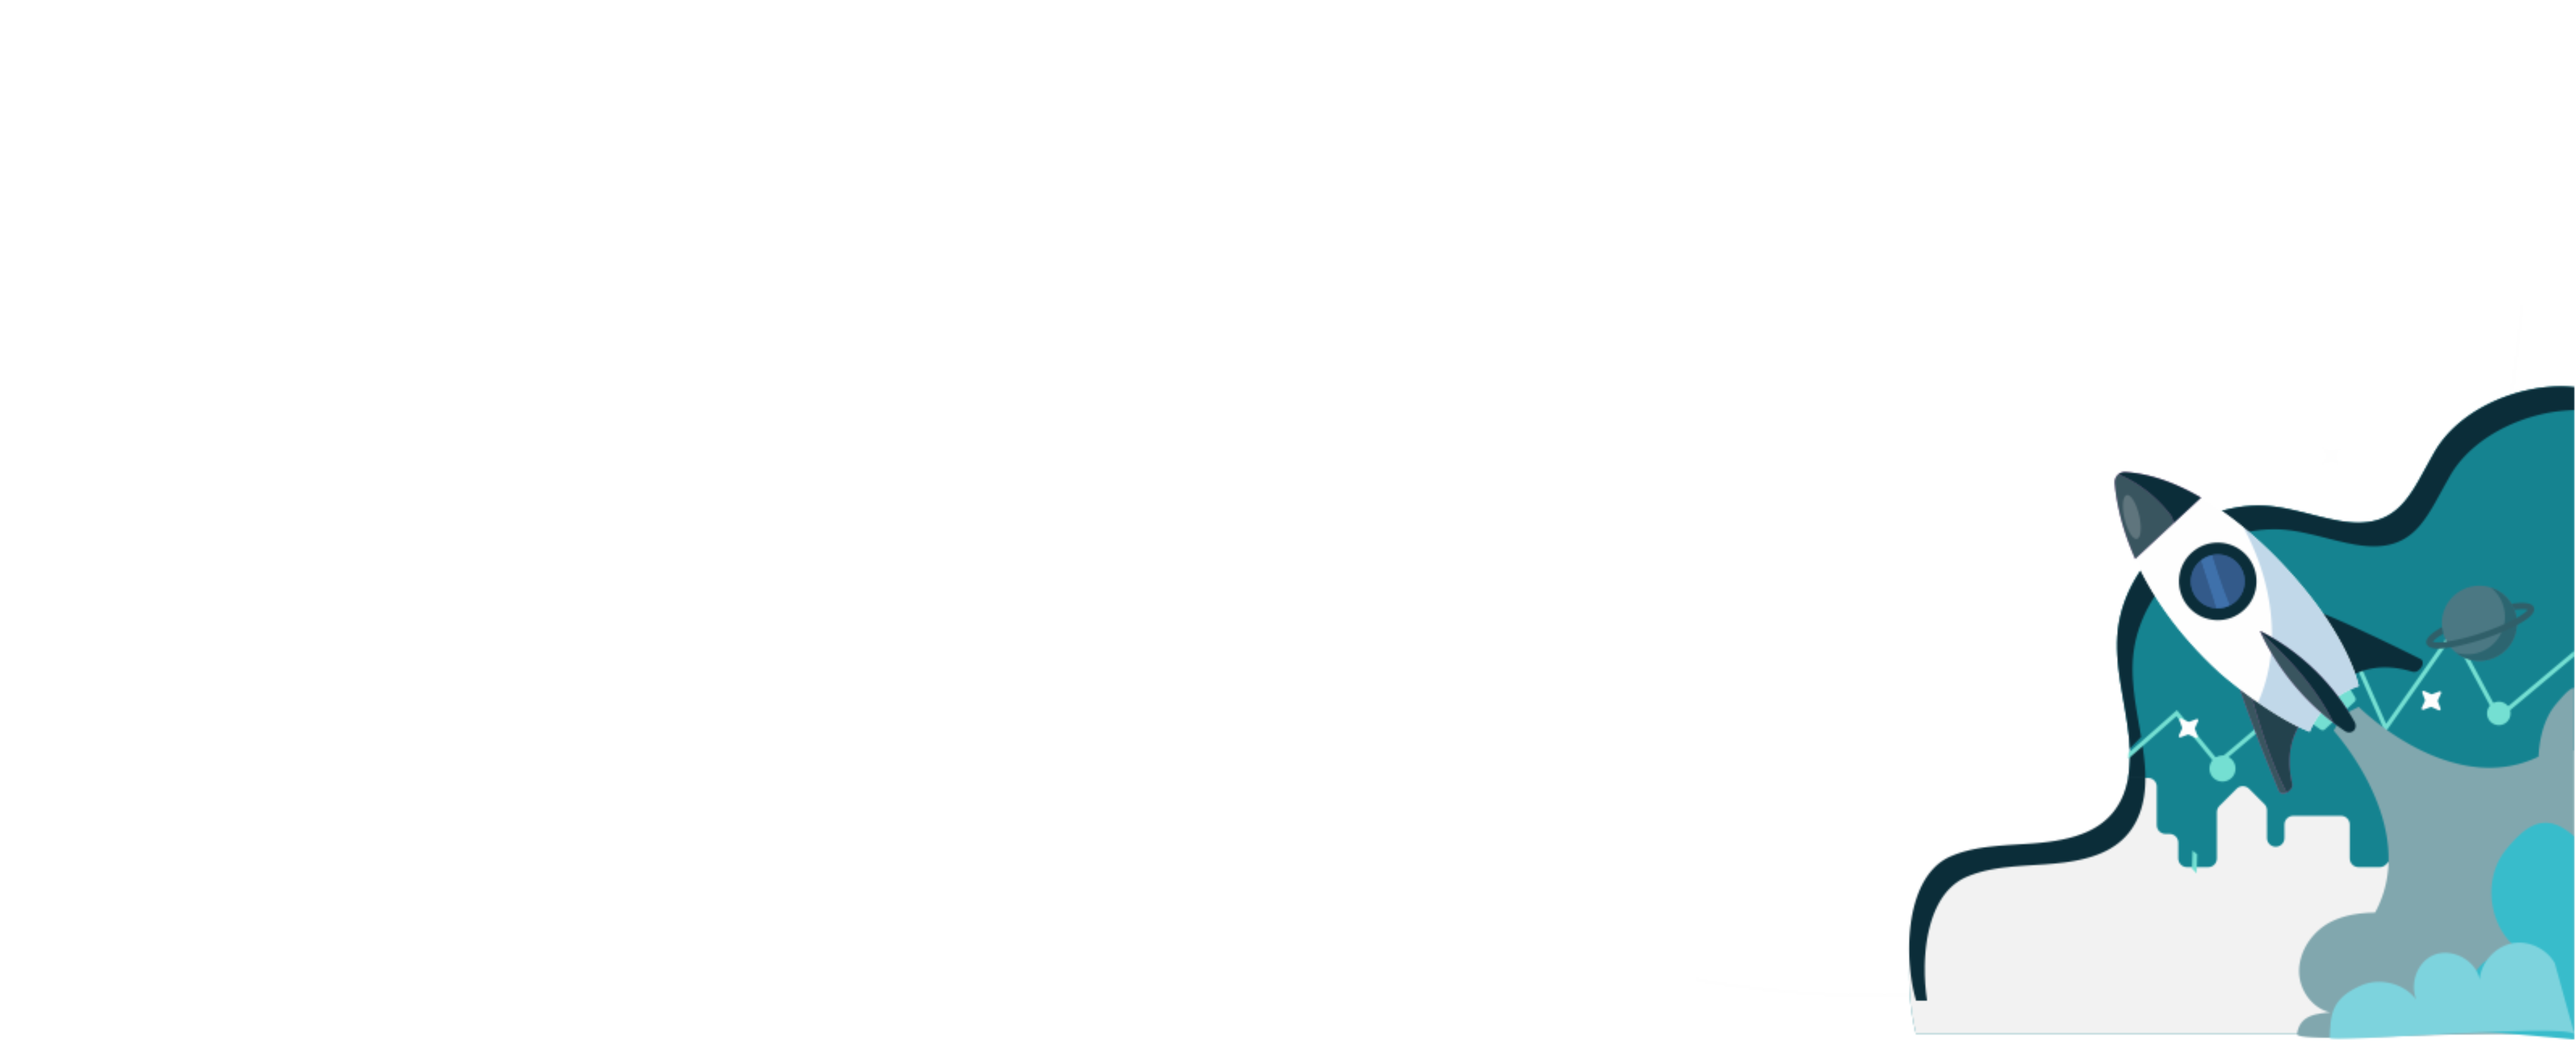
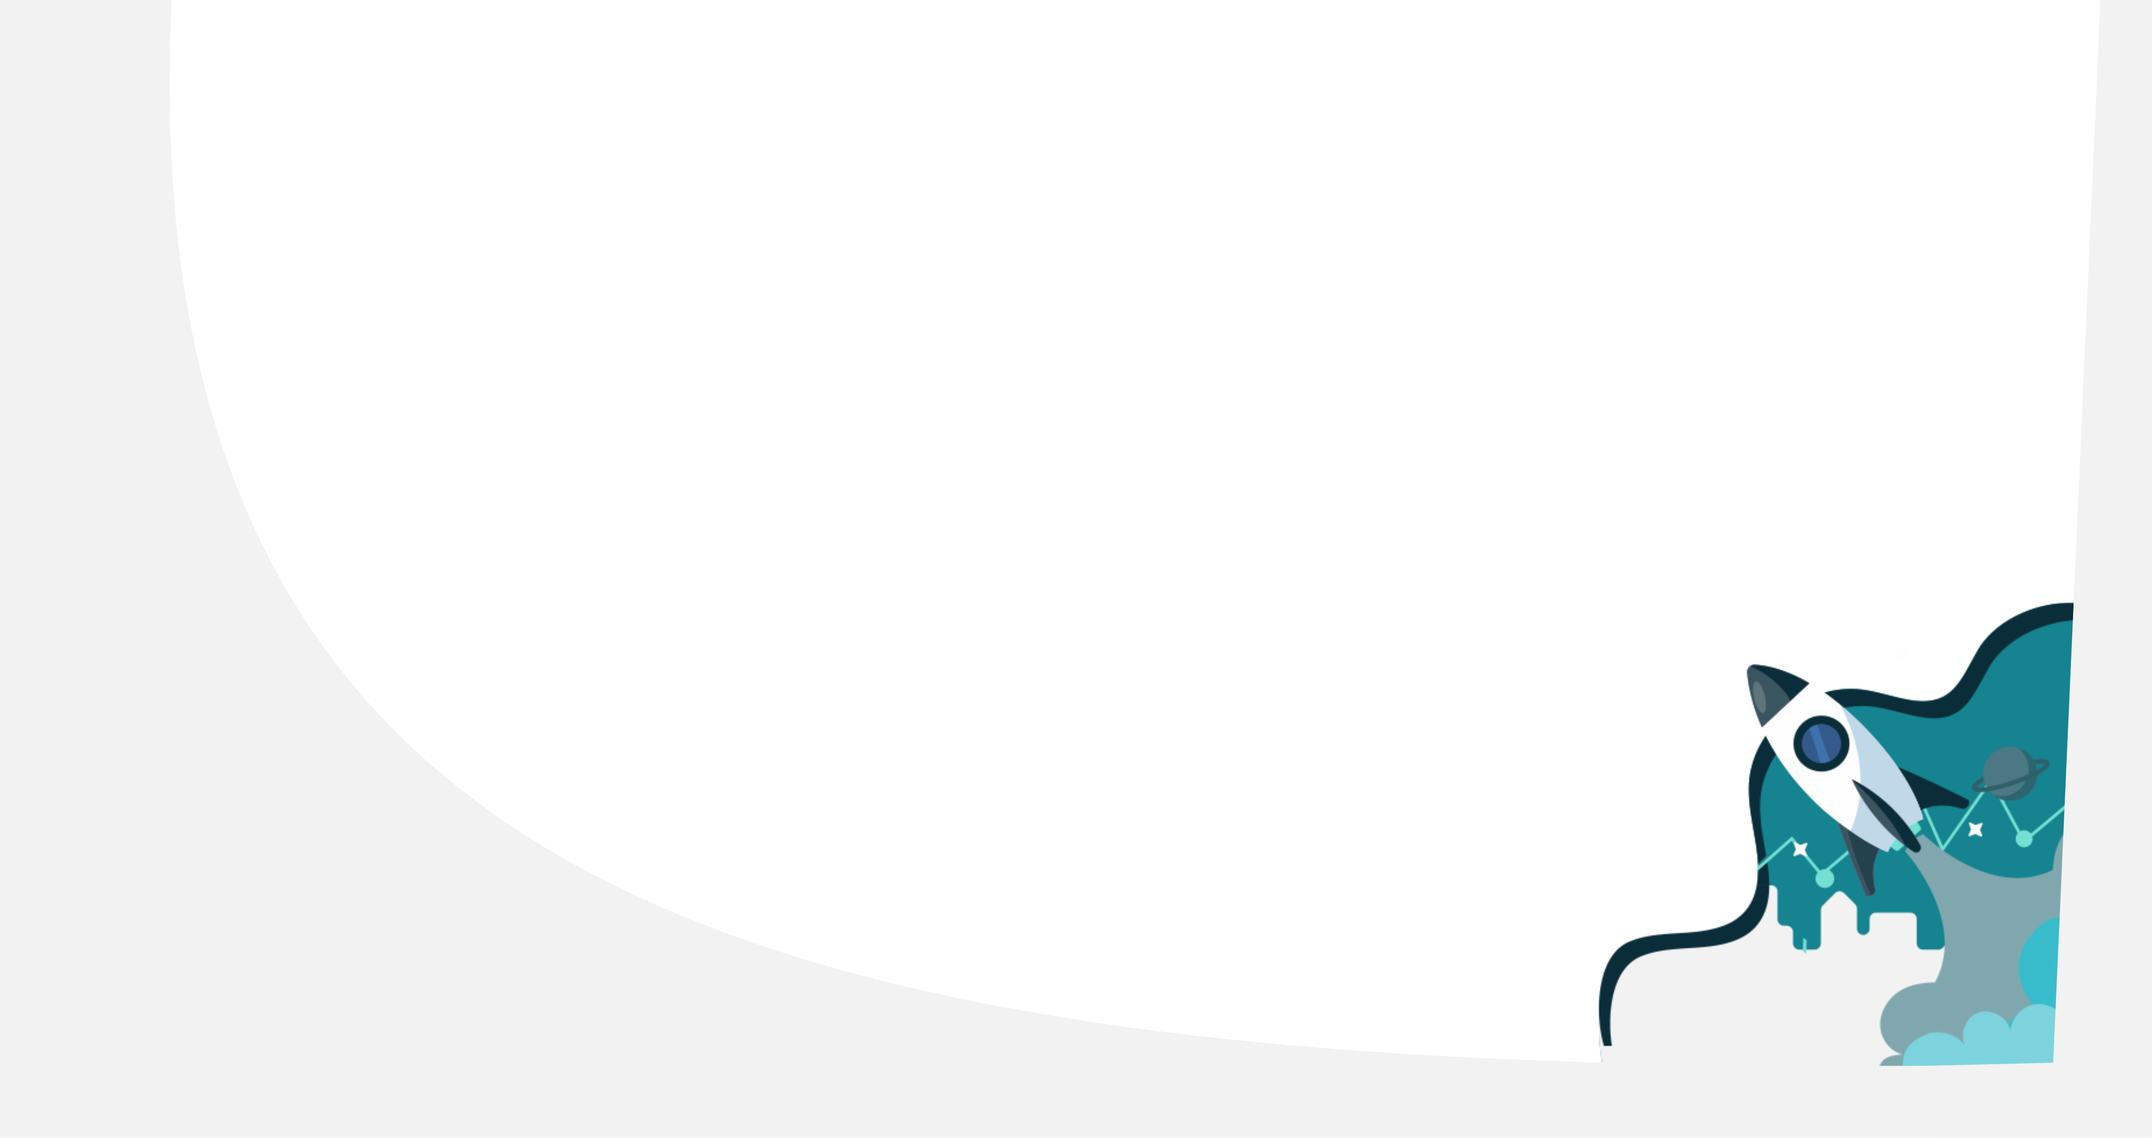
visi redisign background

Changed region(s): [[0.7487, 0.3438, 1.0, 1.0], [0.7175, 0.9062, 0.7487, 0.9688]]

diff --git a/index.php b/index.php
@@ -94,7 +94,7 @@
         </div>
     </div>
 
-    <div class="section">\
+    <div class="section">
         <div class="row">
             <div class="col-sm-4 text-center" id="warehouse" >
                 <img src="./assets/img/Warehouse Service.png" style="max-height: 150px;" class="img-rounded">
@@ -143,37 +143,33 @@
 
     <hr>
 
-    <div class="section">
-        <div class="parallax">
-            <div class="image" style="background-image: url('assets/img/visi.png')">
+    <div class="section" style="background-image: url('assets/img/visi.png'); background-size: contain; background-repeat: no-repeat;">
+        <div class="container">
+            <div class="title-area">
+                <h2  style="font-family:'sui'; color: #158390;">Vision</h2>
+                <p class="text-justify" style="font-size: medium;">
+                    To become the preferred regional technology partner widely known for its strong logistics network and industry expertise for Small and Medium-Sized Enterprises (SMEs) and brands aiming to scale up and accelerate their business in Indonesia and Southeast
+                    Asia.
+                </p>
             </div>
-            <div class="container">
-                <div class="title-area">
-                    <h2  style="font-family:'sui'; color: #158390;">Vision</h2>
-                    <p class="text-justify" style="font-size: medium;">
-                        To become the preferred regional technology partner widely known for its strong logistics network and industry expertise for Small and Medium-Sized Enterprises (SMEs) and brands aiming to scale up and accelerate their business in Indonesia and Southeast
-                        Asia.
-                    </p>
-                </div>
-                <div class="title-area mt-3">
-                    <h2  style="font-family:'sui'; color: #158390;">Mission</h2>
-                    <p class="text-justify" style="font-size: medium;">
-                        Providing hassle-free supply chain solutions for business owners: reasonable cost, seamless user experience, strong yet flexible logistics ecosystem.
-                    </p>
-                    <p class="text-justify" style="font-size: medium;">
-                        Industry standard business process and infrastructure
-                    </p>
-                    <p class="text-justify" style="font-size: medium;">
-                        Integrated and easy to use system that gives visibility and transparency for business owners to monitor their operations
-                    </p>
-                    <p class="text-justify" style="font-size: medium;">
-                        Reasonable and optimized investment to scale up business upon entering and growing e-commerce presence. Haistar is flexible in facilitating collaboration with
-                        our partners across Indonesia and Southeast Asia that results in cost-efficient operations.
-                    </p>
-                    <p class="text-justify" style="font-size: medium;">
-                        Building new logistics ecosystem that allows Haistar, business owners, and stakeholders to synergize and grow together.
-                    </p>
-                </div>
+            <div class="title-area mt-3">
+                <h2  style="font-family:'sui'; color: #158390;">Mission</h2>
+                <p class="text-justify" style="font-size: medium;">
+                    Providing hassle-free supply chain solutions for business owners: reasonable cost, seamless user experience, strong yet flexible logistics ecosystem.
+                </p>
+                <p class="text-justify" style="font-size: medium;">
+                    Industry standard business process and infrastructure
+                </p>
+                <p class="text-justify" style="font-size: medium;">
+                    Integrated and easy to use system that gives visibility and transparency for business owners to monitor their operations
+                </p>
+                <p class="text-justify" style="font-size: medium;">
+                    Reasonable and optimized investment to scale up business upon entering and growing e-commerce presence. Haistar is flexible in facilitating collaboration with
+                    our partners across Indonesia and Southeast Asia that results in cost-efficient operations.
+                </p>
+                <p class="text-justify" style="font-size: medium;">
+                    Building new logistics ecosystem that allows Haistar, business owners, and stakeholders to synergize and grow together.
+                </p>
             </div>
         </div>
     </div>
